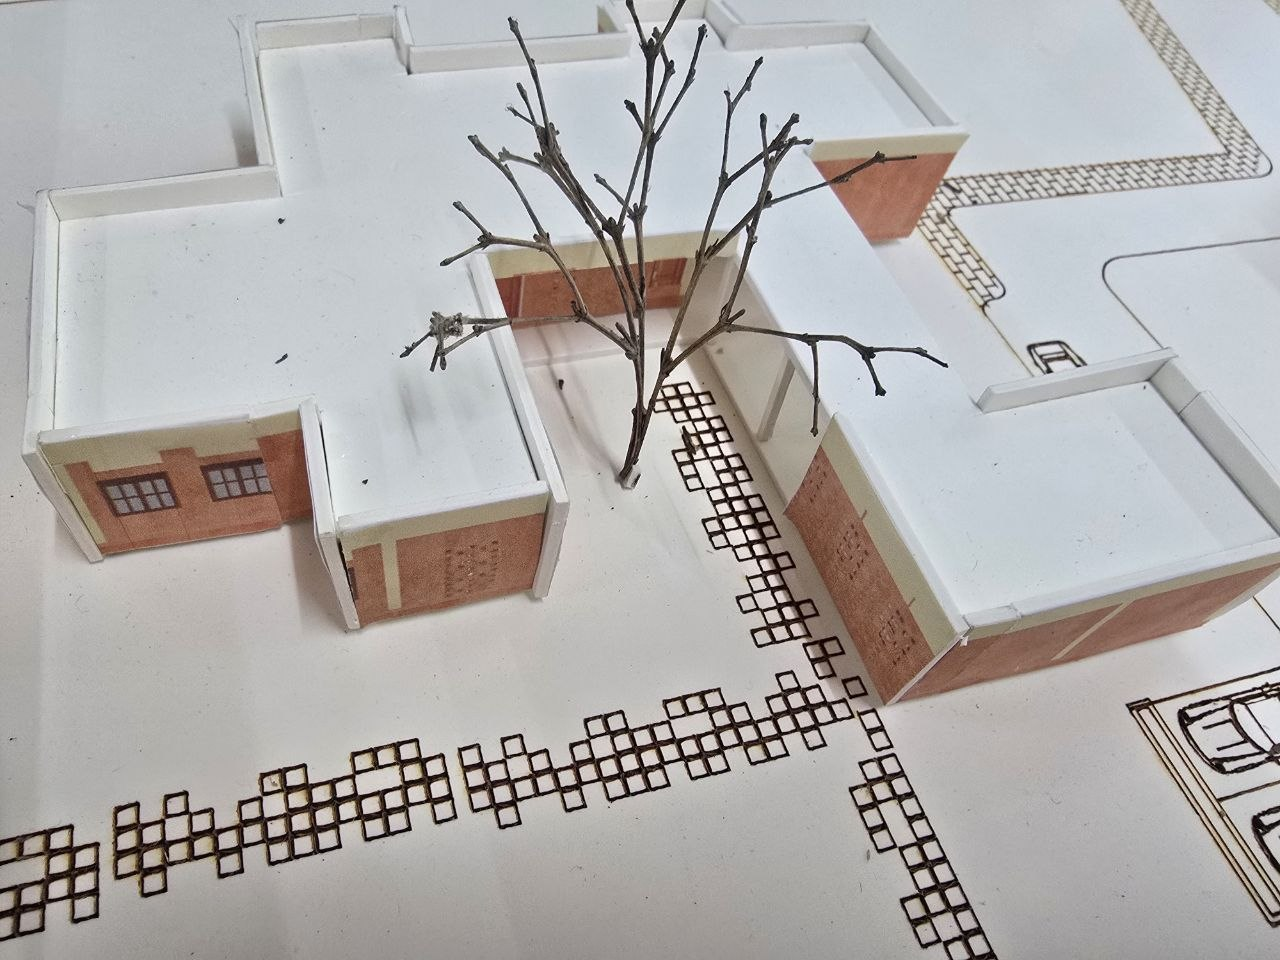
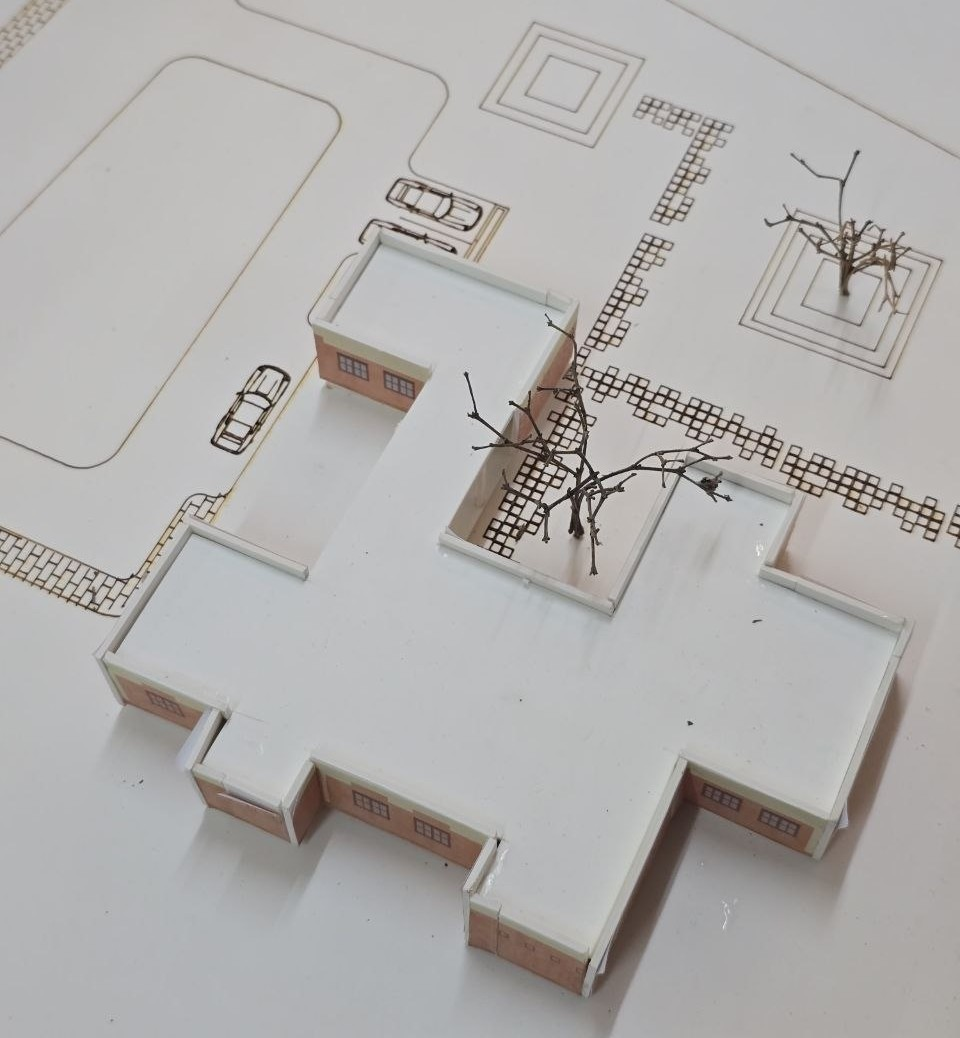
feat: slow reviews marquee, second featured work row, fix interior and cultural images, full bug check

diff --git a/src/components/home/FeaturedWork.tsx b/src/components/home/FeaturedWork.tsx
@@ -54,47 +54,99 @@ const FEATURED: FeaturedItem[] = [
   },
 ]
 
+const FEATURED_ROW2: FeaturedItem[] = [
+  {
+    title: 'Highway Restaurant & Fuel Station',
+    href: '/projects?tab=academic',
+    img: localImg('ap-04-highway.jpg'),
+    sheet: 'AP-04',
+  },
+  {
+    title: 'Low-Cost Housing',
+    href: '/projects?tab=academic',
+    img: localImg('ap-08-housing.jpg'),
+    sheet: 'AP-08',
+  },
+  {
+    title: 'Urban Bazar Redesign',
+    href: '/projects?tab=academic',
+    img: localImg('ap-07-urban.jpg'),
+    sheet: 'AP-07',
+  },
+  {
+    title: 'Landscape Redesign',
+    href: '/projects?tab=academic',
+    img: localImg('ap-09-landscape.jpg'),
+    sheet: 'AP-09',
+  },
+  {
+    title: 'Pedestrian Design',
+    href: '/projects?tab=academic',
+    img: localImg('ap-06-pedestrian.jpg'),
+    sheet: 'AP-06',
+  },
+  {
+    title: 'Duplex Villa at Jatrabari',
+    href: '/projects?tab=built',
+    img: localImg('bp-02-villa-1.jpg'),
+    sheet: 'BP-02',
+  },
+  {
+    title: 'Studio Apartment on Mars',
+    href: '/projects?tab=academic',
+    img: localImg('ap-01-mars.jpg'),
+    sheet: 'AP-01',
+  },
+]
+
+function CardGrid({ items, rowIndex }: { items: FeaturedItem[]; rowIndex: number }) {
+  return (
+    <div className="grid grid-cols-2 md:grid-cols-3 lg:grid-cols-4 xl:grid-cols-7 gap-0 w-full">
+      {items.map((item, i) => (
+        <RevealText key={item.title} delay={i * 0.05 + rowIndex * 0.15}>
+          <Link href={item.href} className="block reveal-item group cursor-pointer">
+            <div className="relative aspect-[4/5] overflow-hidden bg-paper-dim">
+              {item.img && (
+                <div className="absolute inset-0 transition-transform duration-[600ms] ease-out group-hover:scale-[1.08]">
+                  <Image src={item.img} alt={item.title} fill className="object-cover" unoptimized />
+                </div>
+              )}
+
+              <div className="absolute inset-0 bg-black/0 transition-colors duration-[400ms] ease-out group-hover:bg-black/35" />
+
+              <span className="absolute top-3 right-3 text-white text-lg opacity-0 translate-y-1 transition-all duration-300 ease-out group-hover:opacity-100 group-hover:translate-y-0">
+                ↗
+              </span>
+
+              <span className="absolute bottom-0 left-0 h-[2px] w-full origin-left scale-x-0 bg-accent-red transition-transform duration-[400ms] ease-out group-hover:scale-x-100" />
+            </div>
+
+            <div className="flex items-center justify-between px-3 py-2">
+              <p className="font-mono text-xs uppercase tracking-widest transition-transform duration-300 ease-out group-hover:-translate-y-1 truncate">
+                {item.title}
+              </p>
+              {item.sheet && (
+                <span className="font-mono text-xs text-ink-faint transition-colors duration-200 group-hover:text-accent-red flex-shrink-0 ml-2">
+                  {item.sheet}
+                </span>
+              )}
+            </div>
+          </Link>
+        </RevealText>
+      ))}
+    </div>
+  )
+}
+
 export default function FeaturedWork() {
   return (
     <section className="py-16">
       <div className="max-w-site mx-auto px-6 mb-6">
-        <SectionLabel label="Featured Work" count="7 Selected" />
+        <SectionLabel label="Featured Work" count="14 Selected" />
       </div>
 
-      <div className="grid grid-cols-2 md:grid-cols-3 lg:grid-cols-4 xl:grid-cols-7 gap-0 w-full">
-        {FEATURED.map((item, i) => (
-          <RevealText key={item.title} delay={i * 0.05}>
-            <Link href={item.href} className="block reveal-item group cursor-pointer">
-              <div className="relative aspect-[4/5] overflow-hidden bg-paper-dim">
-                {item.img && (
-                  <div className="absolute inset-0 transition-transform duration-[600ms] ease-out group-hover:scale-[1.08]">
-                    <Image src={item.img} alt={item.title} fill className="object-cover" unoptimized />
-                  </div>
-                )}
-
-                <div className="absolute inset-0 bg-black/0 transition-colors duration-[400ms] ease-out group-hover:bg-black/35" />
-
-                <span className="absolute top-3 right-3 text-white text-lg opacity-0 translate-y-1 transition-all duration-300 ease-out group-hover:opacity-100 group-hover:translate-y-0">
-                  ↗
-                </span>
-
-                <span className="absolute bottom-0 left-0 h-[2px] w-full origin-left scale-x-0 bg-accent-red transition-transform duration-[400ms] ease-out group-hover:scale-x-100" />
-              </div>
-
-              <div className="flex items-center justify-between px-3 py-2">
-                <p className="font-mono text-xs uppercase tracking-widest transition-transform duration-300 ease-out group-hover:-translate-y-1 truncate">
-                  {item.title}
-                </p>
-                {item.sheet && (
-                  <span className="font-mono text-xs text-ink-faint transition-colors duration-200 group-hover:text-accent-red flex-shrink-0 ml-2">
-                    {item.sheet}
-                  </span>
-                )}
-              </div>
-            </Link>
-          </RevealText>
-        ))}
-      </div>
+      <CardGrid items={FEATURED} rowIndex={0} />
+      <CardGrid items={FEATURED_ROW2} rowIndex={1} />
     </section>
   )
 }

diff --git a/src/app/globals.css b/src/app/globals.css
@@ -142,7 +142,7 @@
 }
 
 .marquee-left {
-  animation: scroll-left 30s linear infinite;
+  animation: scroll-left 80s linear infinite;
 }
 
 @media (prefers-reduced-motion: reduce) {